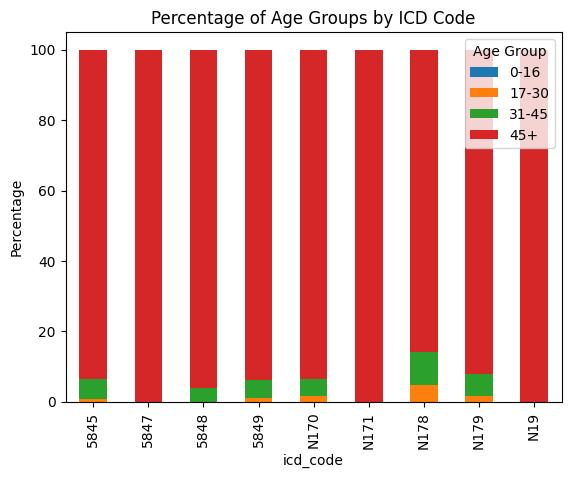
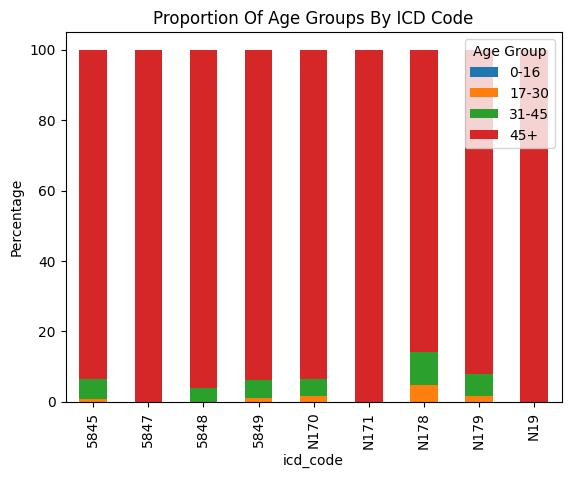
na

Changed region(s): [[0.268, 0.0, 0.8336, 0.0586]]

diff --git a/pkgs/data.py b/pkgs/data.py
@@ -11,12 +11,10 @@ import cmocean
 
 def analyze_esrd():
     patients_df, diagnoses_df = get_esrd_patients_and_diagnoses()
-    print("analyzing patients")
-
     plot_icd_codes(diagnoses_df)
 
-    gender_statistics(patients_df, diagnoses_df)
     age_statistics(patients_df, diagnoses_df)
+    gender_statistics(patients_df, diagnoses_df)
     race_statistics(patients_df, diagnoses_df)
 
 
@@ -43,7 +41,7 @@ def age_statistics(patients_df, diagnoses_df):
 
     ax = pivot_df.plot(kind='bar', stacked=True)
     ax.set_ylabel('Percentage')
-    ax.set_title('Percentage of Age Groups by ICD Code')
+    ax.set_title('Proportion Of Age Groups By ICD Code')
     plt.legend(title='Age Group')
 
     if not os.path.exists(figs_path):
@@ -69,7 +67,7 @@ def plot_icd_codes(diagnoses_df):
             fontsize=8
         )
 
-    plt.title('Distribution of ICD Codes (By Number of Diagnoses)')
+    plt.title('Proportion Of ICD Codes (By Number of Diagnoses)')
     plt.ylabel('')  # Hide the y-label for the pie chart
 
     plt.savefig(figs_path_icd_stats, bbox_inches="tight")
@@ -90,7 +88,7 @@ def gender_statistics(patients_df, diagnoses_df):
 
     ax = pivot_df.plot(kind='bar', stacked=True)
     ax.set_ylabel('Percentage')
-    ax.set_title('Percentage of Genders for each ICD Code')
+    ax.set_title('Percentage Of Genders For Each ICD Code')
     plt.legend(title='Gender')
 
     if not os.path.exists(figs_path):
@@ -120,8 +118,6 @@ def get_admission_df(with_processed_race: bool):
 
 
 def race_statistics(patients_df, diagnoses_df):
-    print(f"race statistics:\n")
-
     admission_df = get_admission_df(True)
 
     merged_df = pd.merge(patients_df, admission_df, on='subject_id')
@@ -138,7 +134,7 @@ def race_statistics(patients_df, diagnoses_df):
 
     ax = pivot_df.plot(kind='bar', stacked=True, color=color_blind_palette, edgecolor='black', linewidth=1.2)
     ax.set_ylabel('Percentage')
-    ax.set_title('Percentage of Races for each ICD Code')
+    ax.set_title('Proportion of Races For Each ICD Code')
     plt.legend(title='Race', bbox_to_anchor=(1.05, 1), loc='upper left')
 
     if not os.path.exists(figs_path):
@@ -150,27 +146,18 @@ def race_statistics(patients_df, diagnoses_df):
 
 def get_esrd_patients_and_diagnoses():
     diagnoses_df = pd.read_csv(diagnose_icd_file_path)
-    print(
-        f"number of rows: {diagnoses_df.shape[0]}. number of subjects: {diagnoses_df['subject_id'].nunique()}"
-    )
 
     esrd_diagnose_df = filter_ckd_esrd_diagnose(diagnoses_df)
     esrd_diagnose_df = esrd_diagnose_df[esrd_diagnose_df['icd_code'].isin(get_esrd_codes())]
     print(
-        f"number of rows: {esrd_diagnose_df.shape[0]}. number of subjects: {esrd_diagnose_df['subject_id'].nunique()}\n"
-        f"percentage of subjects in dataset with kidney failure: {esrd_diagnose_df['subject_id'].nunique() / diagnoses_df['subject_id'].nunique() * 100:.3f}"
+        f"number of ESRD subjects: {esrd_diagnose_df['subject_id'].nunique()}\n"
+        f"percentage of subjects in dataset: {esrd_diagnose_df['subject_id'].nunique() / diagnoses_df['subject_id'].nunique() * 100:.3f}"
     )
-
-    kf_subjects = esrd_diagnose_df['subject_id'].unique()
-    print(f"number of subjects with kidney failure (for validation): {len(kf_subjects)}")
 
     patients_df = pd.read_csv(patients_file_path)
-    patients_df = patients_df[patients_df['subject_id'].isin(kf_subjects)]
+    patients_df = patients_df[patients_df['subject_id'].isin(esrd_diagnose_df['subject_id'].unique())]
 
-    print(
-        f"printing number of subjects out for validation\n"
-        f"number of rows: {patients_df.shape[0]}. number of subjects: {patients_df['subject_id'].nunique()}"
-    )
+    print(f"number of subjects (for validation): {patients_df['subject_id'].nunique()}")
 
     return patients_df, esrd_diagnose_df
 
